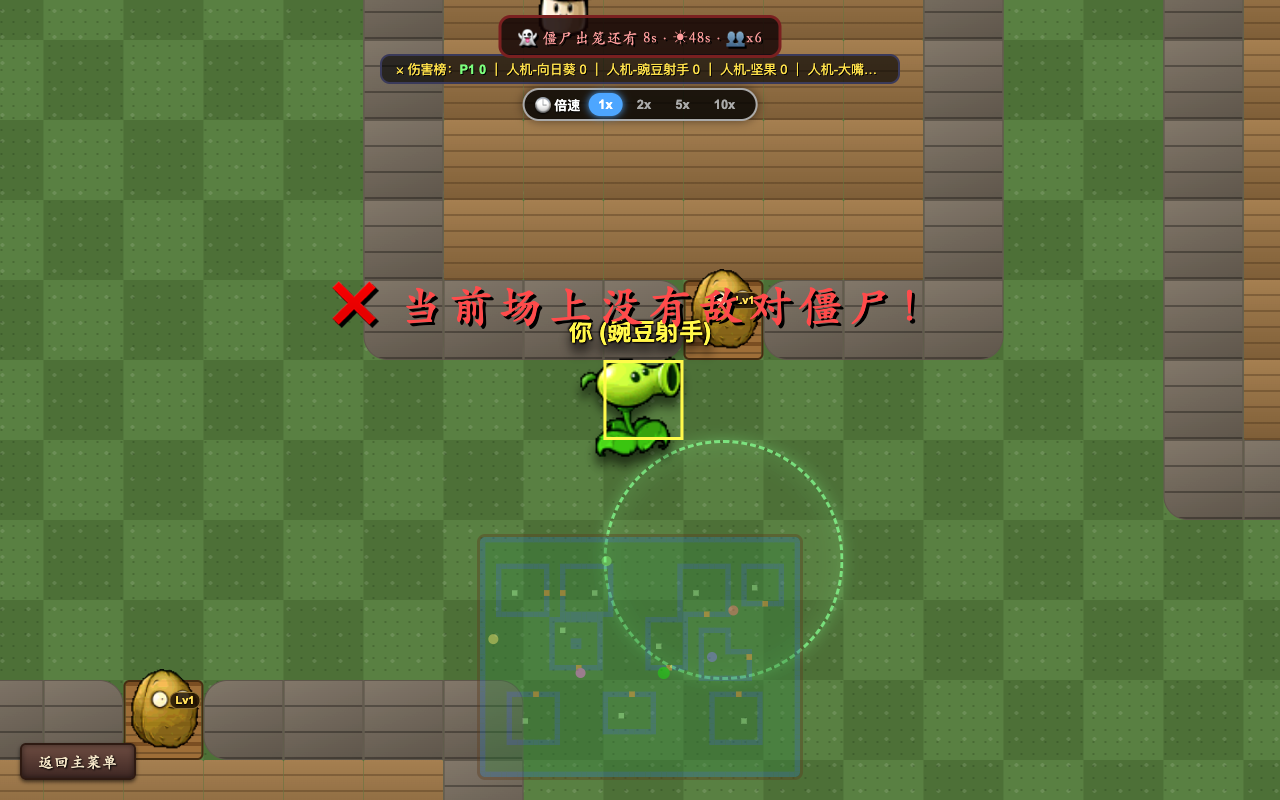
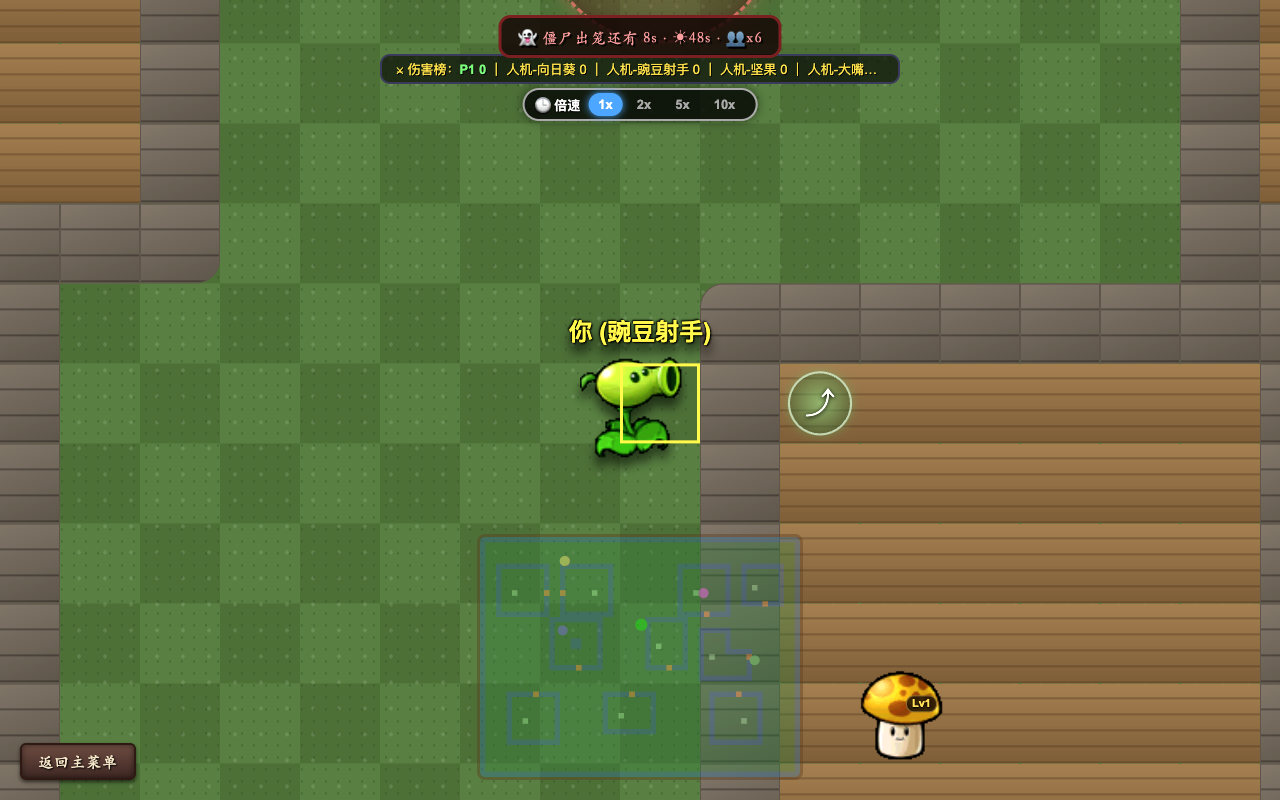
pvz-web v4.0.114 人机出生点回归地图中心：_placeHomeSpawn 只搬真人 P1/P2，5 个人机不再被顺手搬到屋外走道（v4.0.108 用 allPlayers 把它们一起搬走，观感就是人机在屋外乱晃）

diff --git a/pvz-web/js/HauntedDorm.js b/pvz-web/js/HauntedDorm.js
@@ -1437,8 +1437,11 @@ class HauntedDorm {
             return true;
         };
         const used = [];
-        for (const p of this.allPlayers) {
-            if (!p || p.dead) continue;
+        // v4.0.113：只搬真人（P1/P2）——用户说的是「我的出生点」，v4.0.108 却顺着 allPlayers 把 5 个人机
+        // 也一并搬到各自房门外的走道上，于是开局一堆人机在你门口来回晃（用户实报「人机在走路的时间段可以出来」）。
+        // 人机恢复 v3.93 的原设计：全部在地图正中心集合，然后各自走向自己的房间（它们那条路径本来就是从中心算的）。
+        for (const p of [this.player, this.player2]) {
+            if (!p || p.dead || p.isAi) continue;
             let best = null, bestD = Infinity;
             for (const rm of this.rooms) {
                 if (used.includes(rm)) continue;

diff --git a/.workbuddy/memory/2026-10-24.md b/.workbuddy/memory/2026-10-24.md
@@ -234,3 +234,4 @@
 - **坑**：墙内救援块最初写在 `if (ai.path && ai.path.length>0)` 块里 → path 为 null 时永远进不去（T5 连挂 3 次）；救援块必须放在 `_updateAIs` 循环开头（`if (ai._jumpFly) continue;` 之后）
 - **测试坑**：验证脚本长跑 60 秒后 `window.game` 会被自动重开的新实例替换、旧句柄停摆（gameTime 反而变小）；测"人为塞进墙格"这类注入必须 `startHauntedDorm()` 开新局再测；`ai.dead` 的 AI 会被 `_updateAIs` 首行 continue 跳过，注入前要先挑活的
 - 验证 `_verify_v4113.js` 14/14；回归 4112 17/17、4111 13/13、4110 13/13、4109 8/8、4108 18/18、4107 23/23、4106 19/19、4105 13/13、4103 托管 8/8
+- **补丁 2（v4.0.114）**：`_placeHomeSpawn` 改为只搬 `[this.player, this.player2]`（`|| p.isAi` 跳过）——用户原话是「我的出生点」，v4.0.108 用 `allPlayers` 把 5 个人机也搬到屋外走道，观感就是"人机在屋外乱晃/可以出来"。人机恢复 v3.93 原设计：地图正中心集合 → 各自走向自己房间（它们的 BFS 路径本就按中心算）。v4108 出生点 18/18、v4113 14/14 仍全绿
